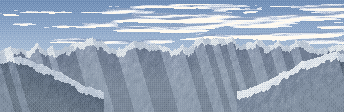
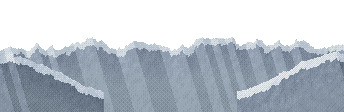
Åsen: høgare stup før første hylla, lia utan dalbotn, meir djupn øvst
Den første bergveggen under kanten går dobbelt så langt ned før første
hylla, og lia går over i dis i staden for ein flat dalbotn som glei feil
med parallaksen. Øvst er det fire lag med kvar sin fart: himmelen nesten
stillståande, fjella, lia og bygda, og trekronene under kanten som glir
fort og søkk bak han. Kameraet ser seks rader over kartet.

diff --git a/js/rpg/data.js b/js/rpg/data.js
@@ -384,24 +384,27 @@ window.RPGData = (function () {
     asen: {
       namn: "Åsen i Hovdebygda", bygg: [{ id: "stove", x: 4, y: 2, h: 3 }, { id: "loe", x: 18, y: 2, h: 3 }, { id: "stabbur", x: 17, y: 9, h: 2 }], stemning: "morgon", golv: ".", bakgrunn: "tun",
       /* Utsikta (sjå «Parallakse» i motor.js, bileta er laga med tools/pikselkunst/utsikt.py).
-         Øvst (opp: true), over kanten der toppen av åsen sluttar: himmelen og fjella lengst bak,
-         og nærast kanten Hovdebygda med kyrkja til høgre og lia opp mot utmarka og setra til
-         venstre. Kameraet kan sjå fem rader over kartet (kameraOpp). Nedst: når Ivar går mot
+         Øvst (opp: true), over kanten der toppen av åsen sluttar, fire lag med kvar sin fart:
+         himmelen (nesten stillståande), fjella, Hovdebygda med kyrkja til høgre og lia opp mot
+         utmarka og setra til venstre, og nærast trekronene i lia under kanten, som glir fort og
+         søkk bak kanten. Kameraet kan sjå seks rader over kartet (kameraOpp). Nedst: når Ivar går mot
          stupet, glir kameraet 3 rader ned (kameraNed), så han står øvst på skjermen og lia som
          stuper ned med berghyller, kratt og skog, og dalen langt nede i dis, syner under (li).
          ved er øvre venstre flis til kameraet når laget står på x, y. */
       luftfarge: "#a6b4bc",
       parallakse: [
-        { bilete: "fjell", faktor: 0.12, ved: [0, -5], x: 0, y: -6, opp: true },
-        { bilete: "dal-nord", faktor: 0.3, ved: [0, -5], x: 0, y: 20, opp: true },
+        { bilete: "himmel", faktor: 0.04, ved: [0, -6], x: 0, y: 0, opp: true },
+        { bilete: "fjell", faktor: 0.1, ved: [0, -6], x: 0, y: 6, opp: true },
+        { bilete: "dal-nord", faktor: 0.3, ved: [0, -6], x: 0, y: 36, opp: true },
+        { bilete: "naer", faktor: 0.6, ved: [0, -6], x: 0, y: 66, opp: true },
         { bilete: "li", faktor: 0.5, ved: [0, 12], x: 0, y: 48 },
       ],
-      kameraOpp: { fra: 10, til: 0 },                                  // øvst ser kameraet opptil fem rader over kanten
+      kameraOpp: { fra: 12, til: 0, rader: 6 },                        // øvst ser kameraet opptil seks rader over kanten
       kameraNed: { fra: 11, til: 13, rader: 3 },                       // ved stupet glir kameraet ned, så Ivar står øvst
       // Forgrunnen: bjørkegreiner i øvre hjørne ved skogen, høgt gras i nedre hjørne ved stupet.
       forgrunn: [
-        { bilete: "greiner", faktor: 1.3, ved: [0, -5], x: -6, y: -4 },
-        { bilete: "greiner-h", faktor: 1.3, ved: [8, -5], x: 210, y: -4 },
+        { bilete: "greiner", faktor: 1.3, ved: [0, -6], x: -6, y: -4 },
+        { bilete: "greiner-h", faktor: 1.3, ved: [8, -6], x: 210, y: -4 },
         { bilete: "gras", faktor: 1.3, ved: [0, 11.5], x: -8, y: 142 },
         { bilete: "gras-h", faktor: 1.3, ved: [8, 11.5], x: 236, y: 142 },
       ],

diff --git a/tools/sjekk-spel.js b/tools/sjekk-spel.js
@@ -105,7 +105,7 @@ for (const [id, k] of Object.entries(D.KART)) if (k.stemning && !(D.STEMNINGAR |
       if (opp.every(l => fsP.existsSync(fil(l)))) {
         let kantRad = 0; R.forEach((r, y) => { if (y < 4 && r.includes("N")) kantRad = y; });   // den lågaste kanten øvst
         const [forst, sist] = [opp[0], opp[opp.length - 1]], df = pngStorleik(fil(forst)), ds = pngStorleik(fil(sist));
-        stopp: for (let ky = -(k.kameraOpp.fra - k.kameraOpp.til) / 2 * S; ky < 0; ky++) for (const kx of [0, Math.max(0, w - VW) * S]) {
+        stopp: for (let ky = -(k.kameraOpp.rader != null ? k.kameraOpp.rader : (k.kameraOpp.fra - k.kameraOpp.til) / 2) * S; ky < 0; ky++) for (const kx of [0, Math.max(0, w - VW) * S]) {
           const [fx, fy] = lagPos(forst, kx, ky), [sx, sy] = lagPos(sist, kx, ky);
           if (fx > 0 || fx + df.w < VW * S || (fy > 0 && !k.luftfarge)) { feil.push(`${id}: ${forst.bilete} dekkjer ikkje himmelen med kameraet på ${kx},${ky}`); break stopp; }
           if (sy + ds.h < kantRad * S + S - ky || sx > 0 || sx + ds.w < VW * S) { feil.push(`${id}: ${sist.bilete} når ikkje ned til kanten med kameraet på ${kx},${ky}`); break stopp; }

diff --git a/tools/pikselkunst/utsikt.py b/tools/pikselkunst/utsikt.py
@@ -6,13 +6,16 @@ bratt ned (stupet), og under stuper lia vidare ned mot dalen, med hyller og skog
 js/rpg/motor.js), og dei er måla med luftperspektiv: lysare, kaldare og med færre fargar jo lenger
 borte.
 
-  fjell     himmelen og Sunnmørsalpane over kanten øvst (faktor 0,12): skyer med lys kant,
-            ei fjern, disig fjellrekkje med snø og nærare fjell på sidene.
+  himmel    himmelen øvst (faktor 0,04): blå, lysare mot horisonten, skyer med lys kant.
+  fjell     Sunnmørsalpane (faktor 0,1): ei fjern, svært disig fjellrekkje med snø og nærare
+            fjell på sidene, gjennomsiktig over toppane.
   dal-nord  utsikta frå kanten øvst (faktor 0,3): til venstre lia opp mot utmarka med setra,
             til høgre Hovdebygda med teigar, gardar, Hovdekyrkja, elva og vegen.
+  naer      trekronene i lia rett under kanten øvst (faktor 0,6): mørke granar og bjørker som
+            stikk opp over graskanten og søkk bak han når kameraet går ned.
   li        lia under stupet (faktor 0,5): bergveggen held fram med hyller med gras, kratt og
-            bjørk, ein ny bergvegg, bratt skog som blir mindre og disigare nedover, og dalen
-            langt nede i dis nedst.
+            bjørk, ein ny bergvegg og bratt skog som blir mindre og disigare nedover og går
+            over i dis nedst (ingen flat dalbotn: han ville gli feil med parallaksen).
   greiner, greiner-h   bjørkegreiner som heng ned i øvre hjørne (forgrunn, faktor 1,3)
   gras, gras-h         høgt gras og ein tuve i nedre hjørne, framfor utsikta (forgrunn, faktor 1,3)
 
@@ -128,37 +131,45 @@ def fjellrekkje(L_, topp, stein, sno, s, dis, snodjup=(6, 10)):
             L_.dis(x, y, math.floor((dis + min(0.25, djup / 140)) * 5 + M.terskel(x, y)) / 5)
 
 
-def fjell():
-    """Himmelen og fjella over kanten øvst, sett utover som i Narshe-bileta: blå himmel med lange,
-    flate skyer som har lys kant, ei fjern og disig fjellrekkje med snø, og nærare fjell på sidene."""
-    L_ = L(FJ_W, FJ_H)
-    himl = M.rampe("#6e8cb4", "#829ec2", "#98b0ce", "#aec2d8", "#c4d2e0")
-    for y in range(FJ_H):
-        for x in range(FJ_W):
-            L_.p(x, y, M.tone(himl, 0.05 + y / 70 * 0.9, x, y))
+HI_W, HI_H = 332, 104
+
+def himmel():
+    """Himmelen øvst (faktor 0,04, nesten stillståande): blå, lysare og kaldare ned mot horisonten,
+    med lange, flate skyer som har lys kant mot ljoset."""
+    L_ = L(HI_W, HI_H)
+    himl = M.rampe("#6a88b2", "#7e9ac0", "#94accc", "#aabed8", "#c2d0e0", "#d2dce6")
+    for y in range(HI_H):
+        for x in range(HI_W):
+            L_.p(x, y, M.tone(himl, 0.04 + y / 84 * 0.95, x, y))
     sky = M.rampe("#8ea2c0", "#b2c0d6", "#d4dce8", "#eef2f6", "#fffaf0")
-    for y in range(4, 44):
-        for x in range(FJ_W):
+    for y in range(4, 50):
+        for x in range(HI_W):
             d = M.fbm(x / 70 + y / 40, y / 6, 361, 5)
-            grense = 0.56 + 0.05 * math.sin(x / 50) - (y - 4) / 40 * 0.04
+            grense = 0.56 + 0.05 * math.sin(x / 50) - (y - 4) / 46 * 0.04
             if d < grense: continue
             lys = d - M.fbm((x + 3) / 70 + (y + 2) / 40, (y + 2) / 6, 361, 5)   # lys kant opp mot venstre
-            L_.p(x, y, M.tone(sky, 0.3 + (d - grense) * 2.4 + lys * 5, x, y))
+            # skyene lenger nede (nærare horisonten) er lenger borte: lysare og flatare
+            L_.p(x, y, M.blend(M.tone(sky, 0.3 + (d - grense) * 2.4 + lys * 5, x, y), "#d2dce6", min(0.6, y / 80)))
+    return L_.im
+
+
+def fjell():
+    """Fjella over kanten øvst (faktor 0,1), utan himmel (gjennomsiktig over toppane): ei fjern,
+    svært disig fjellrekkje med snø, og nærare, mørkare fjell på sidene."""
+    L_ = L(FJ_W, FJ_H)
     stein = M.rampe("#3a4660", "#4e5a76", "#66728e", "#828ea8", "#a2acc2")
     sno = M.rampe("#a0aec4", "#c0cada", "#dee5ef", "#f8fafc")
-    # Den fjerne rekkja: spisse, disige toppar med snø.
-    fjellrekkje(L_, lambda x: 60 - M.rygg(x / 30, 371) * 22 - M.rygg(x / 11, 372) * 5, stein, sno, 373, 0.3, (3, 5))
-    # Nærare fjell på sidene, mørkare og med mindre dis.
+    fjellrekkje(L_, lambda x: 60 - M.rygg(x / 30, 371) * 22 - M.rygg(x / 11, 372) * 5, stein, sno, 373, 0.42, (3, 5))
     def naer(x):
         v, h = ss((120 - x) / 120), ss((x - 220) / 124)
         if v + h < 0.05: return 999
         return 96 - (v * 34 + h * 36) - M.rygg(x / 16, 374) * 10 * (v + h) - M.rygg(x / 6, 375) * 3
-    fjellrekkje(L_, naer, M.rampe("#2e3a4e", "#3e4c62", "#526078", "#6a7890", "#8894a8"), sno, 376, 0.22, (4, 6))
+    fjellrekkje(L_, naer, M.rampe("#2e3a4e", "#3e4c62", "#526078", "#6a7890", "#8894a8"), sno, 376, 0.28, (4, 6))
     return L_.im
 
 
 # ---------------------------------------------------------------- lia under stupet
-LI_W, LI_H = 388, 144
+LI_W, LI_H = 388, 156
 BERG = ["#1c1a2c", "#2e2a3a", "#48434a", "#645e5e", "#827a74", "#a0978a", "#bdb4a4"]   # som BERG i pikslar.js
 
 
@@ -181,26 +192,29 @@ def li():
     L_ = L(LI_W, LI_H)
     gras = M.rampe("#2c4a30", "#3a5e36", "#4e7840", "#68904c", "#88a85a")
     kratt = M.rampe("#162a1e", "#203824", "#2e4a2c", "#3e5e34", "#56743e")
-    h1 = lambda x: 22 + 3 * math.sin(x / 37) + (M.fbm(x / 14, 1, 401, 3) - 0.5) * 8      # første hylla
-    h2 = lambda x: 48 + 3 * math.sin(x / 29 + 1) + (M.fbm(x / 11, 2, 402, 3) - 0.5) * 6  # andre hylla
-    skog = lambda x: 64 + 2 * math.sin(x / 23) + (M.fbm(x / 8, 3, 403, 3) - 0.5) * 6      # skogen i lia
-    dal = lambda x: 96 + 2 * math.sin(x / 41) + (M.fbm(x / 6, 5, 405, 3) - 0.5) * 8          # dalbotnen
+    h1 = lambda x: 46 + 4 * math.sin(x / 37) + (M.fbm(x / 14, 1, 401, 3) - 0.5) * 8      # første hylla, langt nede
+    h2 = lambda x: 78 + 3 * math.sin(x / 29 + 1) + (M.fbm(x / 11, 2, 402, 3) - 0.5) * 6  # andre hylla
+    skog = lambda x: 94 + 2 * math.sin(x / 23) + (M.fbm(x / 8, 3, 403, 3) - 0.5) * 6      # skogen i lia
+    dal = lambda x: 999                                                                 # ingen dalbotn: skogen går over i dis
     hylle = lambda x, k: 4 + int(M.fbm(x / 9, k, 404, 2) * 4)
     for x in range(LI_W):
         a, b, sk, dl = h1(x), h2(x), skog(x), dal(x)
         for y in range(LI_H):
-            if y < a: berg(L_, x, y, 1.0, 411, 0.12 + y / 140)                          # stupet held fram
+            if y < a: berg(L_, x, y, 1.0, 411, 0.1 + y / 220)                          # stupet held fram
             elif y < a + hylle(x, 1):                                                   # hylla med gras
                 k = y - a
                 L_.p(x, y, M.blend(gras[4] if k == 0 else gras[3] if k == 1 else gras[2] if k < hylle(x, 1) - 1 else gras[0], DIS, 0.2))
-            elif y < b: berg(L_, x, y, 0.75, 421, 0.25 + (y - a) / 160)                 # ny bergvegg, mindre
+            elif y < b: berg(L_, x, y, 0.75, 421, 0.28 + (y - a) / 160)                 # ny bergvegg, mindre
             elif y < b + hylle(x, 2) - 1:
                 k = y - b
                 L_.p(x, y, M.blend(gras[4] if k == 0 else gras[2] if k < 3 else gras[0], DIS, 0.32))
-            elif y < sk: berg(L_, x, y, 0.55, 431, 0.38)
+            elif y < sk: berg(L_, x, y, 0.55, 431, 0.42)
             elif y < dl:                                                                # bratt skog
+                # Skogen blir disigare nedover og går over i disen nedst (ingen flat dalbotn som
+                # ville gli feil med parallaksen).
                 v = 0.42 + (M.fbm(x / 2.2, y / 1.8, 441, 2) - 0.5) * 1.0 - (y - sk) / 120
-                L_.p(x, y, M.blend(M.tone(kratt, v, x, y), DIS, math.floor((0.22 + (y - sk) / 110) * 6 + M.terskel(x, y)) / 6))
+                t = 0.3 + (y - sk) / 52 + (M.fbm(x / 18, y / 6, 442, 3) - 0.5) * 0.3
+                L_.p(x, y, M.blend(M.tone(kratt, v, x, y), DIS, min(1, math.floor(t * 6 + M.terskel(x, y)) / 6)))
             else:                                                                       # dalen langt nede
                 eng = M.rampe("#5e8a50", "#6e9a58", "#80a862", "#9ab874")
                 v = 0.5 + (M.fbm(x / 20, y / 3, 451, 3) - 0.5) * 0.9
@@ -225,13 +239,18 @@ def li():
         x = M.h(i, 1, 481) * (LI_W + 8) - 4
         sk_ = skog(x)
         t = M.h(i, 2, 481) ** 1.3
-        y = sk_ + 2 + t * (dal(x) - sk_ - 4)
+        y = sk_ + 2 + t * 20
         r = 2.6 - t * 1.6
         c = M.rampe("#1a3022", "#26402a", "#365434", "#4a6a3e", "#64844a")
         if M.h(i, 3, 481) < 0.45:
             M.gran(L_, int(x), y + r, r * 3, c, fro=i)
         else:
             krone(L_, x, y, r, c, 490 + i)
+    # Kronene nedover får same dis som skogen under, så dei ikkje flyt i disen.
+    for x in range(LI_W):
+        sk_ = skog(x)
+        for y in range(int(sk_) + 4, LI_H):
+            if L_.get(x, y): L_.dis(x, y, min(0.9, math.floor(((y - sk_) / 48) * 6 + M.terskel(x, y)) / 6))
     return L_.im
 
 
@@ -309,10 +328,34 @@ def dal_nord():
     for y in range(DN_H):
         for x in range(DN_W):
             if not L_.get(x, y): continue
-            t = min(0.9, 0.62 - y / DN_H * 0.4)
+            t = min(0.9, 0.74 - y / DN_H * 0.5)
             L_.dis(x, y, math.floor(t * 6 + M.terskel(x, y)) / 6)
     return L_.im
 
+
+
+# ---------------------------------------------------------------- trekronene under kanten øvst
+NA_W, NA_H = 400, 64
+
+def naer():
+    """Trekronene i lia rett under kanten øvst (faktor 0,6): granar og bjørker som står lenger nede
+    og stikk opp over graskanten. Dei er nær, så mørke, metta og nesten utan dis, og dei glir fort
+    forbi og søkk bak kanten når kameraet går ned: det gir høgda."""
+    L_ = L(NA_W, NA_H)
+    gran = M.rampe("#14241c", "#1c3024", "#28402c", "#365236", "#4a6a40")
+    lauv = M.rampe("#1e3422", "#2a4628", "#3c5e32", "#56783e", "#74924c")
+    topp = lambda x: 16 + 7 * math.sin(x / 31) + (M.fbm(x / 9, 1, 601, 3) - 0.5) * 10
+    for x in range(NA_W):                                              # tett skog under kronene
+        for y in range(int(topp(x)) + 10, NA_H):
+            L_.p(x, y, M.tone(gran, 0.3 + (M.fbm(x / 3, y / 2.5, 602, 2) - 0.5) * 0.7, x, y))
+    for i in range(70):
+        x = M.h(i, 1, 603) * (NA_W + 20) - 10; y = topp(x) + M.h(i, 2, 603) * 12
+        if M.h(i, 3, 603) < 0.6: M.gran(L_, int(x), y + 22, 18 + M.h(i, 4, 603) * 10, gran, fro=i)
+        else: krone(L_, x, y + 6, 5 + M.h(i, 5, 603) * 3, lauv, 604 + i)
+    for y in range(NA_H):
+        for x in range(NA_W):
+            if L_.get(x, y): L_.dis(x, y, 0.08)
+    return L_.im
 
 
 # ---------------------------------------------------------------- forgrunnen
@@ -372,7 +415,7 @@ def gras():
     return L_.im
 
 
-BILETE = {"li": li, "dal-nord": dal_nord, "fjell": fjell, "greiner": greiner, "gras": gras}
+BILETE = {"li": li, "himmel": himmel, "fjell": fjell, "dal-nord": dal_nord, "naer": naer, "greiner": greiner, "gras": gras}
 
 if __name__ == "__main__":
     namn = sys.argv[1:] or list(BILETE)
@@ -385,7 +428,9 @@ if __name__ == "__main__":
     # Kontaktark i 3x: utsikta øvst (fjella og dalen sett utover) og lia under stupet.
     ark = Image.new("RGBA", (980, 940), (14, 12, 18, 255))
     fj = Image.open(os.path.join(UT, "fjell.png")); dn = Image.open(os.path.join(UT, "dal-nord.png")); li_ = Image.open(os.path.join(UT, "li.png"))
-    opp = Image.new("RGBA", (320, 110), (166, 180, 188, 255)); opp.alpha_composite(fj.crop((0, 0, 320, 110)), (0, 0)); opp.alpha_composite(dn.crop((0, 0, 320, DN_H)), (0, 26))
+    hi = Image.open(os.path.join(UT, "himmel.png")); na = Image.open(os.path.join(UT, "naer.png"))
+    opp = Image.new("RGBA", (320, 110), (166, 180, 188, 255)); opp.alpha_composite(hi.crop((0, 0, 320, HI_H)), (0, 0))
+    opp.alpha_composite(fj.crop((0, 0, 320, 110)), (0, 4)); opp.alpha_composite(dn.crop((0, 0, 320, DN_H)), (0, 36)); opp.alpha_composite(na.crop((0, 0, 320, NA_H)), (0, 78))
     ark.alpha_composite(opp.resize((960, 330), Image.NEAREST), (10, 10))
     ark.alpha_composite(li_.crop((0, 0, 320, 140)).resize((960, 420), Image.NEAREST), (10, 350))
     x = 10

diff --git a/js/rpg/README.md b/js/rpg/README.md
@@ -140,7 +140,7 @@ Lyset etterliknar Super Nintendo og Final Fantasy VI. Det meste av lyset er teik
 - **Bakgrunnslag** (`parallakse` på kartet): `[{ bilete, faktor, ved: [kx, ky], x, y }, …]`, det fjernaste først. `bilete` er namnet på fila i `bilete/spel/parallakse/` (laga med `tools/pikselkunst/utsikt.py`). `x` og `y` er der øvre venstre hjørne står på skjermen (pikslar) når kameraet står med øvre venstre flis på `ved`, og laget flyttar seg `faktor` (eit tal eller `[fx, fy]`) så langt som kartet. Posisjonen blir runda til heile pikslar for seg, og han er ein monoton funksjon av kameraet (som òg står på heile pikslar og går i tikk), så ingenting ristar fram og attende. `luftfarge` fyller skjermen under laga. Laga blir berre teikna innanfor kartet.
 - **Forgrunn** (`forgrunn` på kartet): same format, med faktor over 1, teikna etter alt anna (før lyset). Bjørkegreiner i øvre hjørne når kameraet står øvst, høgt gras i nedre hjørne når det står nedst ved stupet. Dei går fort ut av biletet når kameraet flyttar seg.
 - **Utsikt for kameraet** (`kameraNed: { fra, til, rader }`): når målet for kameraet går frå rad `fra` ned til rad `til`, glir kameraet jamt lenger ned, til `rader` rader (standard `(til - fra) / 2`). Når `rader / (til - fra)` er eit halvt tal, går farten opp i heile pikslar (spelaren 2 pikslar per tikk, kameraet 3 eller 5). `kameraOpp: { fra, til, rader }` er det same oppover: over rad `fra` ser kameraet opp til `rader` rader over kartet, der det er luft. Kanten der bakken fell bort er rad 0 og alle `N`-fliser (som har luft over seg); `Pikslar.nordkant` bøyer kanten ned mot sida der det er luft. Laga for utsikta øvst har `opp: true`.
-- På Åsen: toppen er lengst oppe på midten, og kanten fell eit steg ned mot sidene. Øvst ser ein ut som i Narshe: himmelen og fjella (`fjell`, faktor 0,12) og nærast kanten (`dal-nord`, 0,3) lia opp mot utmarka med setra til venstre og Hovdebygda med kyrkja til høgre. Nedst glir kameraet 3 rader ned dei to siste radene mot stupet, så Ivar står øvst på skjermen, og under stupet stuper lia vidare (`li`, 0,5): berghyller med gras, kratt og bjørk, ein ny bergvegg, bratt skog og dalen langt nede i dis. Minnet om far (`minne-far`) har same lia under stupet.
+- På Åsen: toppen er lengst oppe på midten, og kanten fell eit steg ned mot sidene. Øvst ser ein ut som i Narshe, i fire lag med kvar sin fart: himmelen (`himmel`, faktor 0,04), fjella (`fjell`, 0,1), lia opp mot utmarka med setra til venstre og Hovdebygda med kyrkja til høgre (`dal-nord`, 0,3), og nærast trekronene i lia under kanten (`naer`, 0,6), som glir fort og søkk bak kanten når kameraet går ned. Kameraet kan sjå seks rader over kartet. Nedst glir kameraet 3 rader ned dei to siste radene mot stupet, så Ivar står øvst på skjermen, og under stupet stuper lia vidare (`li`, 0,5): ein høg bergvegg før den første hylla, berghyller med gras, kratt og bjørk, ein ny bergvegg og bratt skog som går over i dis (ingen flat dalbotn, som glei feil med parallaksen). Minnet om far (`minne-far`) har same lia under stupet.
 
 ### Posar
 Figurane kan knele, sitje, peike, liggje og sove i ei scene (`D.POSAR`). Posen varer til figuren går, eller til hendinga er slutt, og han går framfor kjensla.

diff --git a/tools/pikselkunst/STILGUIDE.md b/tools/pikselkunst/STILGUIDE.md
@@ -242,15 +242,18 @@ landskap langt nede som flyttar seg saktare enn kartet.
   dis med dither, så bakgrunnen syner gjennom. Eit nes som stikk ut, kastar skugge på berget til høgre.
 - Toppen av åsen er lengst oppe på midten (to kollar med skrent under seg), og kanten (`N`) fell eit
   steg ned mot sidene, der han bøyer rundt ned mot lufta. Stien til utmarka går i søkket mellom kollane.
+- Djupn øvst kjem av fleire lag med ulik fart og sterkt luftperspektiv: himmelen står nesten still,
+  fjella er svært disige, dalen og lia disige og kalde, og trekronene rett under kanten er mørke og
+  metta og glir fort (faktor 0,6), så dei søkk bak kanten når kameraet går ned.
 - Utsikta ligg øvst, over kanten: som i Narshe-bileta himmel øvst (blå, lysare nedover, lange skyer
   med lys kant), fjella under (disige, alpine toppar med snø) og nærast kanten lia opp mot utmarka til
   venstre (skog nedst, fjellbeite med stein, ein bekk og setra langt oppe) og Hovdebygda til høgre, med
   ein skogkledd rygg på skrå mellom dei. Kanten er graset som sluttar i ei ujamn, lys line med strå mot
   himmelen; lia bak syner ikkje.
-- Under stupet nedst: lia stuper vidare (`li`, faktor 0,5): berget held fram (same knausar og renner),
-  hyller med lyst gras i kanten og kratt, einer og små bjørker, ein ny, mindre og disigare bergvegg,
-  bratt skog med kroner som blir mindre nedover, og dalen langt nede i dis. Ingen flat dalbotn rett
-  under stupet, og ingen fjell der (dei ville stå feil veg).
+- Under stupet nedst: lia stuper vidare (`li`, faktor 0,5): berget held fram (same knausar og renner)
+  eit godt stykke før den første hylla, så med lyst gras i kanten og kratt, einer og små bjørker, ein ny, mindre og disigare bergvegg,
+  bratt skog med kroner som blir mindre nedover og går over i dis. Ingen flat dalbotn (han glei feil med
+  parallaksen, sidan ei flate langt borte skulle gått mykje saktare enn lia), og ingen fjell der.
 - Utsikta (`tools/pikselkunst/utsikt.py`): luftperspektiv måla inn. Dalen er lysare og
   blåare enn kartet, små gardar (torvtak, raud eller grå vegg),
   Hovdekyrkja kvit med skifertak og spir, teigar i grønt og gult med steingardar, elva og vegen.

diff --git a/tools/pikselkunst/ARBEIDSLOGG.md b/tools/pikselkunst/ARBEIDSLOGG.md
@@ -1050,3 +1050,24 @@ same måte, uansett kven som tek over.
   skipet (ingen steinheller eller korstrinn; kvileplassen `L` teiknar golvet til kartet under seg).
   Ingen galleri eller klokkarstol. Altarljosa har ingen glød (berre `L` og lysekrona). Flisa `e`
   (gamle benker) er ikkje lenger i bruk.
+
+## Runde 31: høgare stup før første hylla, lia utan dalbotn, og meir djupn øvst
+
+- **Oppdrag:** Brukaren: det første klippenivået nedst skal gå lenger ned, parallaksen fungerte ikkje
+  med dalbotnen, og toppen av Åsen skal ha endå meir djupn.
+- **Gjort:**
+  - `li` (`utsikt.py`): den første bergveggen går dobbelt så langt ned (første hylla ved y 46, var 22),
+    den andre hylla og skogen ligg lenger nede. Den flate dalbotnen er borte: ei flate langt borte
+    skulle ha glidd mykje saktare enn lia, så ho glei feil. No blir skogen disigare nedover og går over
+    i dis (kronene får same dis som skogen under, så dei ikkje flyt).
+  - Øvst er det fire lag med kvar sin fart: `himmel` (ny, 0,04: blå, lysare mot horisonten, skyer som
+    blir flatare og lysare lenger nede), `fjell` (0,1, no utan himmel og med meir dis), `dal-nord`
+    (0,3, sterkare luftperspektiv: meir dis øvst) og `naer` (ny, 0,6: mørke granar og bjørker i lia
+    under kanten som stikk opp over graskanten og søkk bak han når kameraet går ned).
+  - `kameraOpp: { fra: 12, til: 0, rader: 6 }`: kameraet ser seks rader over kartet (var fem), og
+    glir ei halv rad per rad (3 pikslar per tikk). `sjekk-spel.js` brukar `rader`.
+  - Ingen merke, dører, folk eller scener er flytte.
+- **Vurdert:** `forhand/skjerm/r31-oversyn.png` og `r31q-topp`: øvst stikk trekronene opp over kanten,
+  bak dei ligg den disige lia og bygda, fjella og himmelen, og laga glir med ulik fart. Nedst er
+  stupet høgt før den første hylla, og lia går over i dis.
+- **Står att:** Disen nedst i lia er ei jamn, lys flate.

diff --git a/.claude/skills/pikselkunst/SKILL.md b/.claude/skills/pikselkunst/SKILL.md
@@ -170,7 +170,8 @@ Kjelda er alltid ei `.pix`-fil i `tools/pikselkunst/kjelder/` (formatet står
     øvst der bakken fell bort (`Pikslar.nordkant`, i rad 0 eller under luft på kart med `kameraOpp`;
     kanten bøyer ned mot sida der det er luft, så toppen kan vere høgast på midten).
   - Bakgrunnslaga og forgrunnen: `python tools/pikselkunst/utsikt.py` (skriptet er kjelda) skriv
-    `bilete/spel/parallakse/<namn>.png` (fjell og dal-nord øvst, li under stupet, greiner, gras) og
+    `bilete/spel/parallakse/<namn>.png` (himmel, fjell, dal-nord og naer øvst, li under stupet,
+    greiner, gras) og
     `forhand/utsikt-ark.png`. På
     kartet: `parallakse: [{ bilete, faktor, ved: [kx, ky], x, y }]` (det fjernaste først, faktor under 1),
     `forgrunn: [...]` (faktor over 1), `luftfarge`, `kameraNed: { fra, til, rader }` (kameraet
